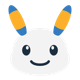
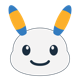
Add auth token freshness helper, branding assets, and AppSource cert notes
Baseline prep work that predates the local-chat-history feature:
- use-auth.ts: ensureValidToken() returns the current token when valid for
  >60s, otherwise refreshes (foundation for the focus-loss/401 handling).
- Refreshed add-in icons + new logo.png.
- certification-notes.html: AppSource certification notes.
- declarations.d.ts: module declarations (e.g. image imports).

Claude-Session: https://claude.ai/code/session_01Kwn2eUq8Bj7EVPaTP1sm5S

diff --git a/certification-notes.html b/certification-notes.html
@@ -1,0 +1,195 @@
+<!DOCTYPE html>
+<html lang="en">
+<head>
+  <meta charset="UTF-8" />
+  <meta name="viewport" content="width=device-width, initial-scale=1" />
+  <title>Usable Excel — Certification Testing Notes</title>
+  <style>
+    * { box-sizing: border-box; margin: 0; padding: 0; }
+    body {
+      font-family: "Segoe UI", Arial, sans-serif;
+      font-size: 13px;
+      line-height: 1.6;
+      color: #1a1a1a;
+      padding: 48px 56px;
+      max-width: 800px;
+      margin: 0 auto;
+    }
+    h1 {
+      font-size: 20px;
+      font-weight: 700;
+      margin-bottom: 4px;
+      color: #0F6CBD;
+    }
+    .subtitle {
+      font-size: 12px;
+      color: #555;
+      margin-bottom: 28px;
+      padding-bottom: 16px;
+      border-bottom: 2px solid #0F6CBD;
+    }
+    h2 {
+      font-size: 14px;
+      font-weight: 700;
+      margin-top: 24px;
+      margin-bottom: 8px;
+      color: #0F6CBD;
+      text-transform: uppercase;
+      letter-spacing: 0.05em;
+    }
+    p { margin-bottom: 10px; }
+    ul, ol {
+      margin: 6px 0 10px 20px;
+    }
+    li { margin-bottom: 4px; }
+    table {
+      width: 100%;
+      border-collapse: collapse;
+      margin: 10px 0 16px;
+      font-size: 12px;
+    }
+    th {
+      background: #0F6CBD;
+      color: #fff;
+      text-align: left;
+      padding: 7px 10px;
+      font-weight: 600;
+    }
+    td {
+      padding: 6px 10px;
+      border-bottom: 1px solid #e0e0e0;
+    }
+    tr:nth-child(even) td { background: #f5f9fd; }
+    code {
+      background: #f0f0f0;
+      padding: 1px 5px;
+      border-radius: 3px;
+      font-family: "Consolas", "Courier New", monospace;
+      font-size: 12px;
+    }
+    .note {
+      background: #f0f7ff;
+      border-left: 3px solid #0F6CBD;
+      padding: 10px 14px;
+      margin: 12px 0;
+      border-radius: 0 4px 4px 0;
+      font-size: 12px;
+    }
+    .footer {
+      margin-top: 40px;
+      padding-top: 12px;
+      border-top: 1px solid #ddd;
+      font-size: 11px;
+      color: #888;
+    }
+  </style>
+</head>
+<body>
+
+  <h1>Usable Excel — Certification Testing Notes</h1>
+  <div class="subtitle">
+    Product: Usable Excel &nbsp;|&nbsp; Version: 1.0.1.3 &nbsp;|&nbsp;
+    Manifest: https://flowcore-io.github.io/usable-excel/manifest.prod.xml
+  </div>
+
+  <h2>1. Authentication</h2>
+  <p>The add-in requires a Usable account to function.</p>
+  <ul>
+    <li>Accounts are <strong>free</strong> — sign up at <strong>https://usable.dev</strong></li>
+    <li>No credit card or purchase required at any point</li>
+    <li>After signing up, click <strong>Sign in</strong> in the task pane and complete the OAuth login flow</li>
+    <li>The add-in uses Keycloak PKCE OAuth via the Office Dialog API (standard Office Add-In pattern)</li>
+  </ul>
+
+  <h2>2. Installing the add-in for testing</h2>
+  <p><strong>Option A — Via AppSource (once published):</strong></p>
+  <p>Open Excel → Insert → Add-ins → search "Usable Excel"</p>
+
+  <p><strong>Option B — Sideload the manifest directly:</strong></p>
+  <ol>
+    <li>Download: <code>https://flowcore-io.github.io/usable-excel/manifest.prod.xml</code></li>
+    <li><strong>Excel on the web:</strong> Insert → Add-ins → Upload My Add-in → paste the URL or upload the file</li>
+    <li><strong>Excel on Windows/Mac:</strong> Insert → Add-ins → My Add-ins → Upload My Add-in</li>
+  </ol>
+
+  <h2>3. Opening the add-in</h2>
+  <p>Once installed:</p>
+  <ol>
+    <li>Go to the <strong>Home</strong> ribbon tab</li>
+    <li>Click <strong>Usable Chat</strong> in the Usable group</li>
+    <li>The task pane opens and loads the Usable Chat interface</li>
+    <li>Sign in with a free Usable account if prompted</li>
+  </ol>
+
+  <h2>4. Test scenarios</h2>
+  <table>
+    <thead>
+      <tr>
+        <th>Scenario</th>
+        <th>What to type in the chat</th>
+        <th>Expected result</th>
+      </tr>
+    </thead>
+    <tbody>
+      <tr>
+        <td>Read workbook</td>
+        <td>"What sheets are in this workbook?"</td>
+        <td>AI lists the sheet names</td>
+      </tr>
+      <tr>
+        <td>Read cells</td>
+        <td>"What's in cell A1?"</td>
+        <td>AI reads and describes the value</td>
+      </tr>
+      <tr>
+        <td>Write to a cell</td>
+        <td>"Write 'Hello World' in cell A1"</td>
+        <td>Cell A1 contains Hello World</td>
+      </tr>
+      <tr>
+        <td>Format cells</td>
+        <td>"Make A1 bold and blue"</td>
+        <td>Cell A1 is bold with blue text</td>
+      </tr>
+      <tr>
+        <td>Create a sheet</td>
+        <td>"Add a new sheet called Summary"</td>
+        <td>New sheet appears in the workbook</td>
+      </tr>
+      <tr>
+        <td>Sort data</td>
+        <td>"Sort column A ascending"</td>
+        <td>Column A sorted A→Z</td>
+      </tr>
+      <tr>
+        <td>Apply formula</td>
+        <td>"Put =SUM(A1:A10) in cell B1"</td>
+        <td>Formula applied to B1</td>
+      </tr>
+      <tr>
+        <td>Create a chart</td>
+        <td>"Create a bar chart from A1:B5"</td>
+        <td>Chart inserted in the sheet</td>
+      </tr>
+    </tbody>
+  </table>
+
+  <h2>5. Notes for reviewers</h2>
+  <ul>
+    <li>The add-in connects to <code>https://chat.usable.dev</code> (declared in AppDomains in the manifest)</li>
+    <li>All AI processing is handled by the Usable service at <code>https://api.usable.dev</code></li>
+    <li>Authentication is handled by Keycloak at <code>https://auth.flowcore.io</code></li>
+    <li>The add-in has <code>ReadWriteDocument</code> permissions — required to read and write spreadsheet data</li>
+    <li>No spreadsheet data is stored persistently — data is only processed within the active session</li>
+  </ul>
+
+  <div class="note">
+    For any questions during review, please contact us at <strong>https://usable.dev/contact.html</strong>
+  </div>
+
+  <div class="footer">
+    Usable Excel · https://usable.dev · Certification notes for Microsoft AppSource review
+  </div>
+
+</body>
+</html>

diff --git a/src/taskpane/hooks/use-auth.ts b/src/taskpane/hooks/use-auth.ts
@@ -34,6 +34,8 @@ export interface AuthResult {
   logout: () => void;
   /** Fetch a fresh access token using the stored refresh token. */
   refreshAccessToken: () => Promise<string | null>;
+  /** Return current token if valid for >60s, otherwise refresh. */
+  ensureValidToken: () => Promise<string | null>;
 }
 
 // ---------------------------------------------------------------------------
@@ -100,8 +102,11 @@ export function useAuth(): AuthResult {
   const [state, setState]             = useState<AuthState>("restoring");
   const [accessToken, setAccessToken] = useState<string | null>(null);
 
-  const refreshTimerRef = useRef<ReturnType<typeof setTimeout> | null>(null);
-  const dialogRef       = useRef<Office.Dialog | null>(null);
+  const refreshTimerRef   = useRef<ReturnType<typeof setTimeout> | null>(null);
+  const dialogRef         = useRef<Office.Dialog | null>(null);
+  const tokenExpiresAtRef = useRef<number | null>(null);
+  const accessTokenRef    = useRef<string | null>(null);
+  accessTokenRef.current  = accessToken;
 
   // -------------------------------------------------------------------------
   // Schedule silent token refresh
@@ -132,6 +137,7 @@ export function useAuth(): AuthResult {
 
     setAccessToken(result.accessToken);
     setState("authenticated");
+    tokenExpiresAtRef.current = Date.now() + result.expiresIn * 1000;
 
     if (result.refreshToken) saveRefreshToken(result.refreshToken);
 
@@ -141,6 +147,23 @@ export function useAuth(): AuthResult {
 
     return result.accessToken;
   }, [scheduleRefresh]);
+
+  // -------------------------------------------------------------------------
+  // ensureValidToken — return current token if still fresh, else refresh
+  // -------------------------------------------------------------------------
+
+  const ensureValidToken = useCallback(async (): Promise<string | null> => {
+    const expiresAt    = tokenExpiresAtRef.current;
+    const currentToken = accessTokenRef.current;
+
+    // Token is still valid for more than 60 seconds — return it without a network call
+    if (currentToken && expiresAt && (expiresAt - Date.now()) > 60_000) {
+      return currentToken;
+    }
+
+    // Token is expired or expiring soon — fetch a fresh one
+    return refreshAccessToken();
+  }, [refreshAccessToken]);
 
   // -------------------------------------------------------------------------
   // Restore session on mount
@@ -212,6 +235,7 @@ export function useAuth(): AuthResult {
 
               setAccessToken(data.accessToken);
               setState("authenticated");
+              tokenExpiresAtRef.current = Date.now() + (data.expiresIn ?? 300) * 1000;
               scheduleRefresh(data.expiresIn ?? 300, () => refreshAccessToken());
 
               if (data.refreshToken) saveRefreshToken(data.refreshToken);
@@ -245,5 +269,5 @@ export function useAuth(): AuthResult {
     if (refreshTimerRef.current) clearTimeout(refreshTimerRef.current);
   }, []);
 
-  return { state, accessToken, login, logout, refreshAccessToken };
+  return { state, accessToken, login, logout, refreshAccessToken, ensureValidToken };
 }

diff --git a/src/declarations.d.ts b/src/declarations.d.ts
@@ -1,0 +1,4 @@
+declare module "*.png" {
+  const url: string;
+  export default url;
+}
